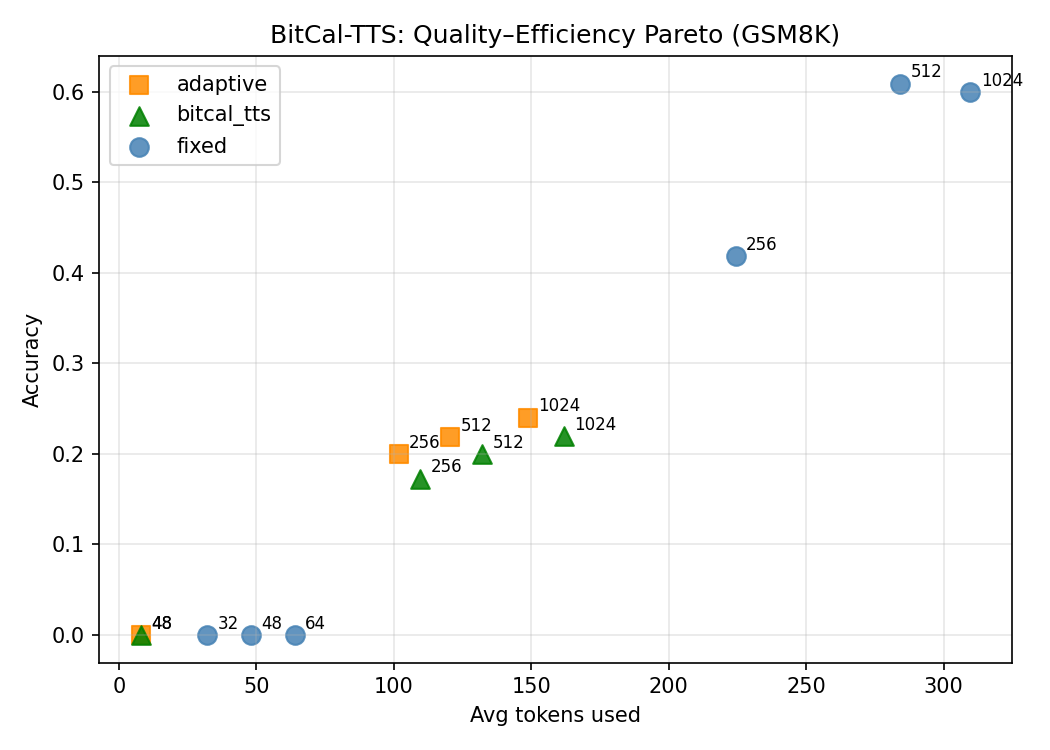
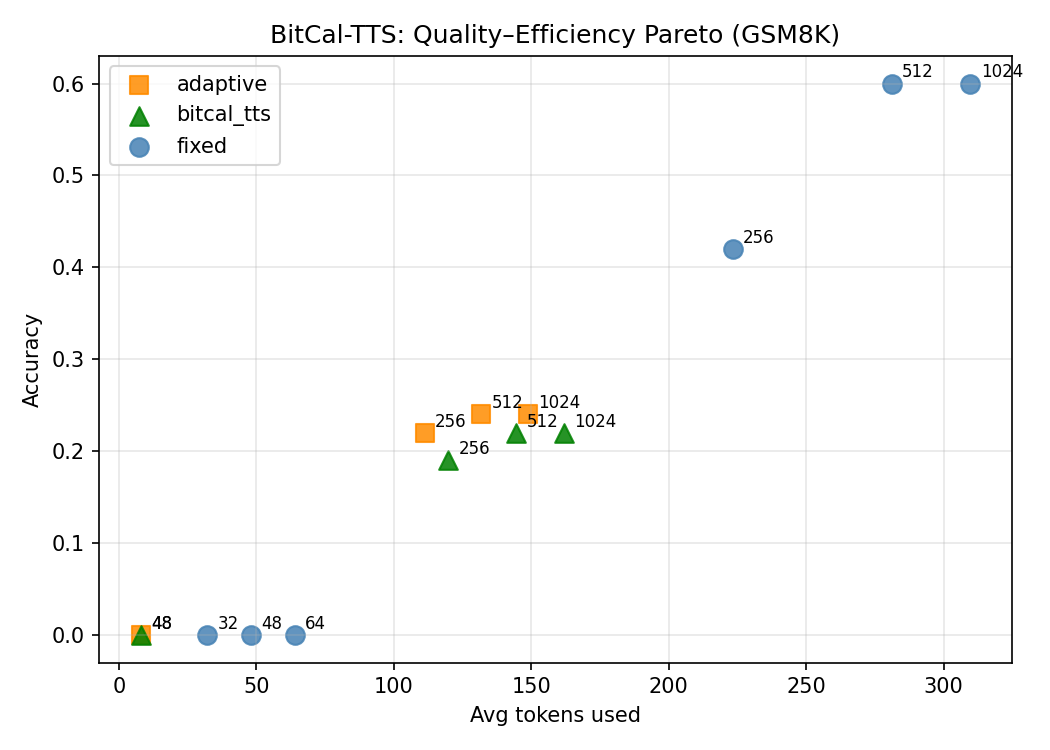
Fix: stream results to disk after every row; add Run-7 note in README
Made-with: Cursor

diff --git a/scripts/run_experiment.py b/scripts/run_experiment.py
@@ -121,6 +121,14 @@ def save_results(results: List[Dict[str, Any]], out_dir: Path, run_id: str) -> P
     return out_path
 
 
+def open_streaming_file(out_dir: Path, run_id: str) -> tuple:
+    """Open a JSONL file for streaming (one row written per result immediately)."""
+    out_dir.mkdir(parents=True, exist_ok=True)
+    out_path = out_dir / f"{run_id}.jsonl"
+    fh = out_path.open("w", encoding="utf-8")
+    return fh, out_path
+
+
 def print_summary(results: List[Dict[str, Any]]) -> None:
     from collections import defaultdict
 
@@ -188,39 +196,47 @@ def main(argv: Optional[List[str]] = None) -> None:
     total = len(tasks) * len(args.budget) * len(args.methods)
     done = 0
 
-    for task in tasks:
-        for bud in args.budget:
-            for method in args.methods:
-                done += 1
-                print(f"[{done}/{total}] task={task.id}  method={method}  budget={bud}", end=" ")
-                try:
-                    result = run_item(
-                        model=model,
-                        tokenizer=tokenizer,
-                        task_id=task.id,
-                        prompt=task.prompt,
-                        gold_answer=task.gold_answer,
-                    method=method,
-                    budget=bud,
-                    bit_width=args.bit_width,
-                    policy=policy,
-                    seed=args.seed,
-                    step_size=args.step_size,
-                    max_entropy=args.max_entropy,
-                    answer_extractor=extract_answer,
-                    min_tokens_before_halt=args.min_tokens_before_halt,
-                    )
-                    r = result.to_dict()
-                    print(f"-> correct={result.correct}  tokens={result.tokens_used}")
-                except Exception as exc:  # noqa: BLE001
-                    print(f"-> ERROR: {exc}")
-                    r = {
-                        "task_id": task.id, "method": method, "budget": bud,
-                        "error": str(exc), "correct": False, "tokens_used": 0,
-                    }
-                all_results.append(r)
+    # Stream each result to disk immediately so partial runs are never lost.
+    stream_fh, out_path = open_streaming_file(out_dir, run_id)
+    print(f"Streaming results -> {out_path}")
 
-    out_path = save_results(all_results, out_dir, run_id)
+    try:
+        for task in tasks:
+            for bud in args.budget:
+                for method in args.methods:
+                    done += 1
+                    print(f"[{done}/{total}] task={task.id}  method={method}  budget={bud}", end=" ")
+                    try:
+                        result = run_item(
+                            model=model,
+                            tokenizer=tokenizer,
+                            task_id=task.id,
+                            prompt=task.prompt,
+                            gold_answer=task.gold_answer,
+                            method=method,
+                            budget=bud,
+                            bit_width=args.bit_width,
+                            policy=policy,
+                            seed=args.seed,
+                            step_size=args.step_size,
+                            max_entropy=args.max_entropy,
+                            answer_extractor=extract_answer,
+                            min_tokens_before_halt=args.min_tokens_before_halt,
+                        )
+                        r = result.to_dict()
+                        print(f"-> correct={result.correct}  tokens={result.tokens_used}")
+                    except Exception as exc:  # noqa: BLE001
+                        print(f"-> ERROR: {exc}")
+                        r = {
+                            "task_id": task.id, "method": method, "budget": bud,
+                            "error": str(exc), "correct": False, "tokens_used": 0,
+                        }
+                    all_results.append(r)
+                    stream_fh.write(json.dumps(r) + "\n")
+                    stream_fh.flush()
+    finally:
+        stream_fh.close()
+
     print(f"\nSaved {len(all_results)} results -> {out_path}")
     print_summary(all_results)
 

diff --git a/results/README.md b/results/README.md
@@ -139,8 +139,23 @@ The results motivate a stronger bit-aware calibration: the current implementatio
 
 ---
 
+### Run 7 — 7B Qwen2.5 experiment attempt (INTERRUPTED — data lost)
+| Field | Value |
+|---|---|
+| File | `raw/exp_Qwen_Qwen2.5-3B-Instruct_1775368229.jsonl` (1 row — smoke only) |
+| Date | 2026-04-05 |
+| Model | `Qwen/Qwen2.5-7B-Instruct` (4-bit, Colab T4 GPU) |
+| Target | 100 items × 3 methods × 3 budgets = 900 rows |
+| Outcome | **INTERRUPTED** at ~102 rows. Data not saved — old script only wrote JSONL at end of run. |
+| Fix | `scripts/run_experiment.py` now **streams each row to disk immediately** (`stream_fh.flush()` after every item). Re-run is safe to interrupt at any point. |
+
+**Action: Re-run Run 7 on Colab with the updated script.** Any row count saved is valid partial data.
+
+---
+
 ## Next steps (paper writing)
-- Draft Section 4 (Experiments) using the table above
+- **Re-run 7B experiment** (Cell 6B in `colab_experiment.ipynb`) — now safe to stop mid-run
+- Draft Section 4 (Experiments) using 3B table above + 7B data when available
 - Draft Section 3 (Method) citing bit-width scale factors
 - Submit to arXiv
 